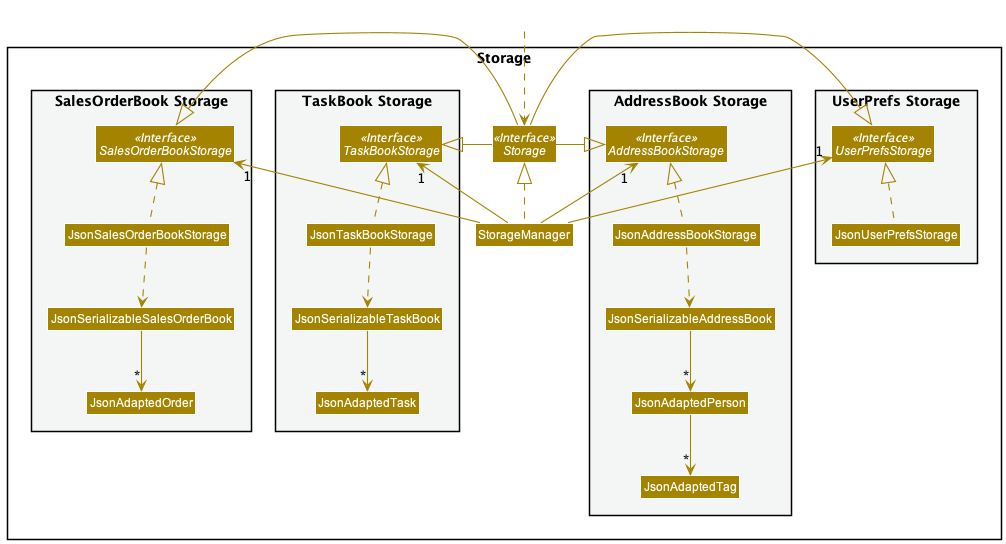
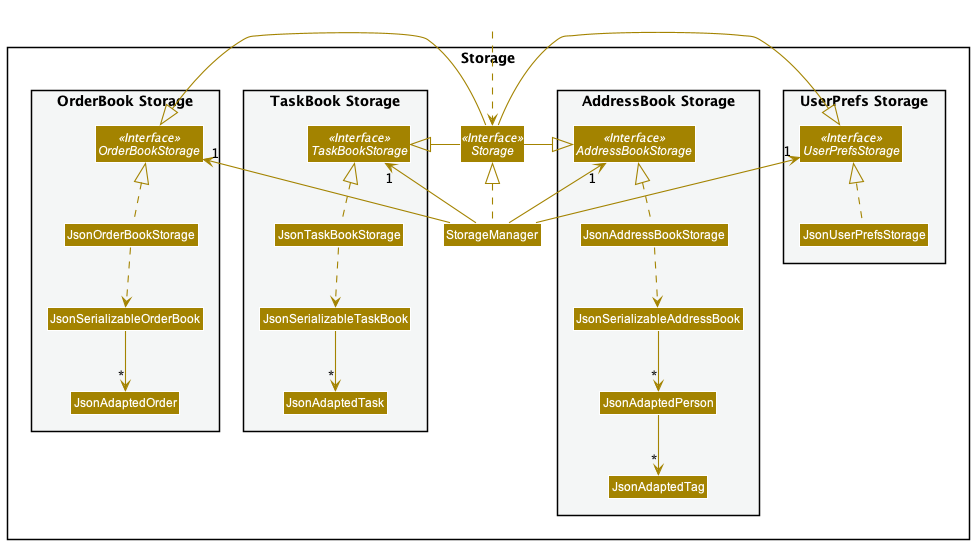
Fixing some wordig based on the  comments

diff --git a/docs/DeveloperGuide.md b/docs/DeveloperGuide.md
@@ -166,7 +166,7 @@ The `Model` component,
 The `Storage` component,
 * can save address book data, task book data, sales order book data
   and user preference data in json format, and read them back into corresponding objects.
-* inherits from all of `AddressBookStorage`, `TaskBookStorage`, `TaskBookStorage`,
+* inherits from all of `AddressBookStorage`, `TaskBookStorage`, `OrderBookStorage`,
   and `UserPrefStorage`, which means it can be treated as either one (if only the functionality of only one is needed).
 * depends on some classes in the `Model` component (because the `Storage` component's job is to save/retrieve objects that belong to the `Model`)
 
